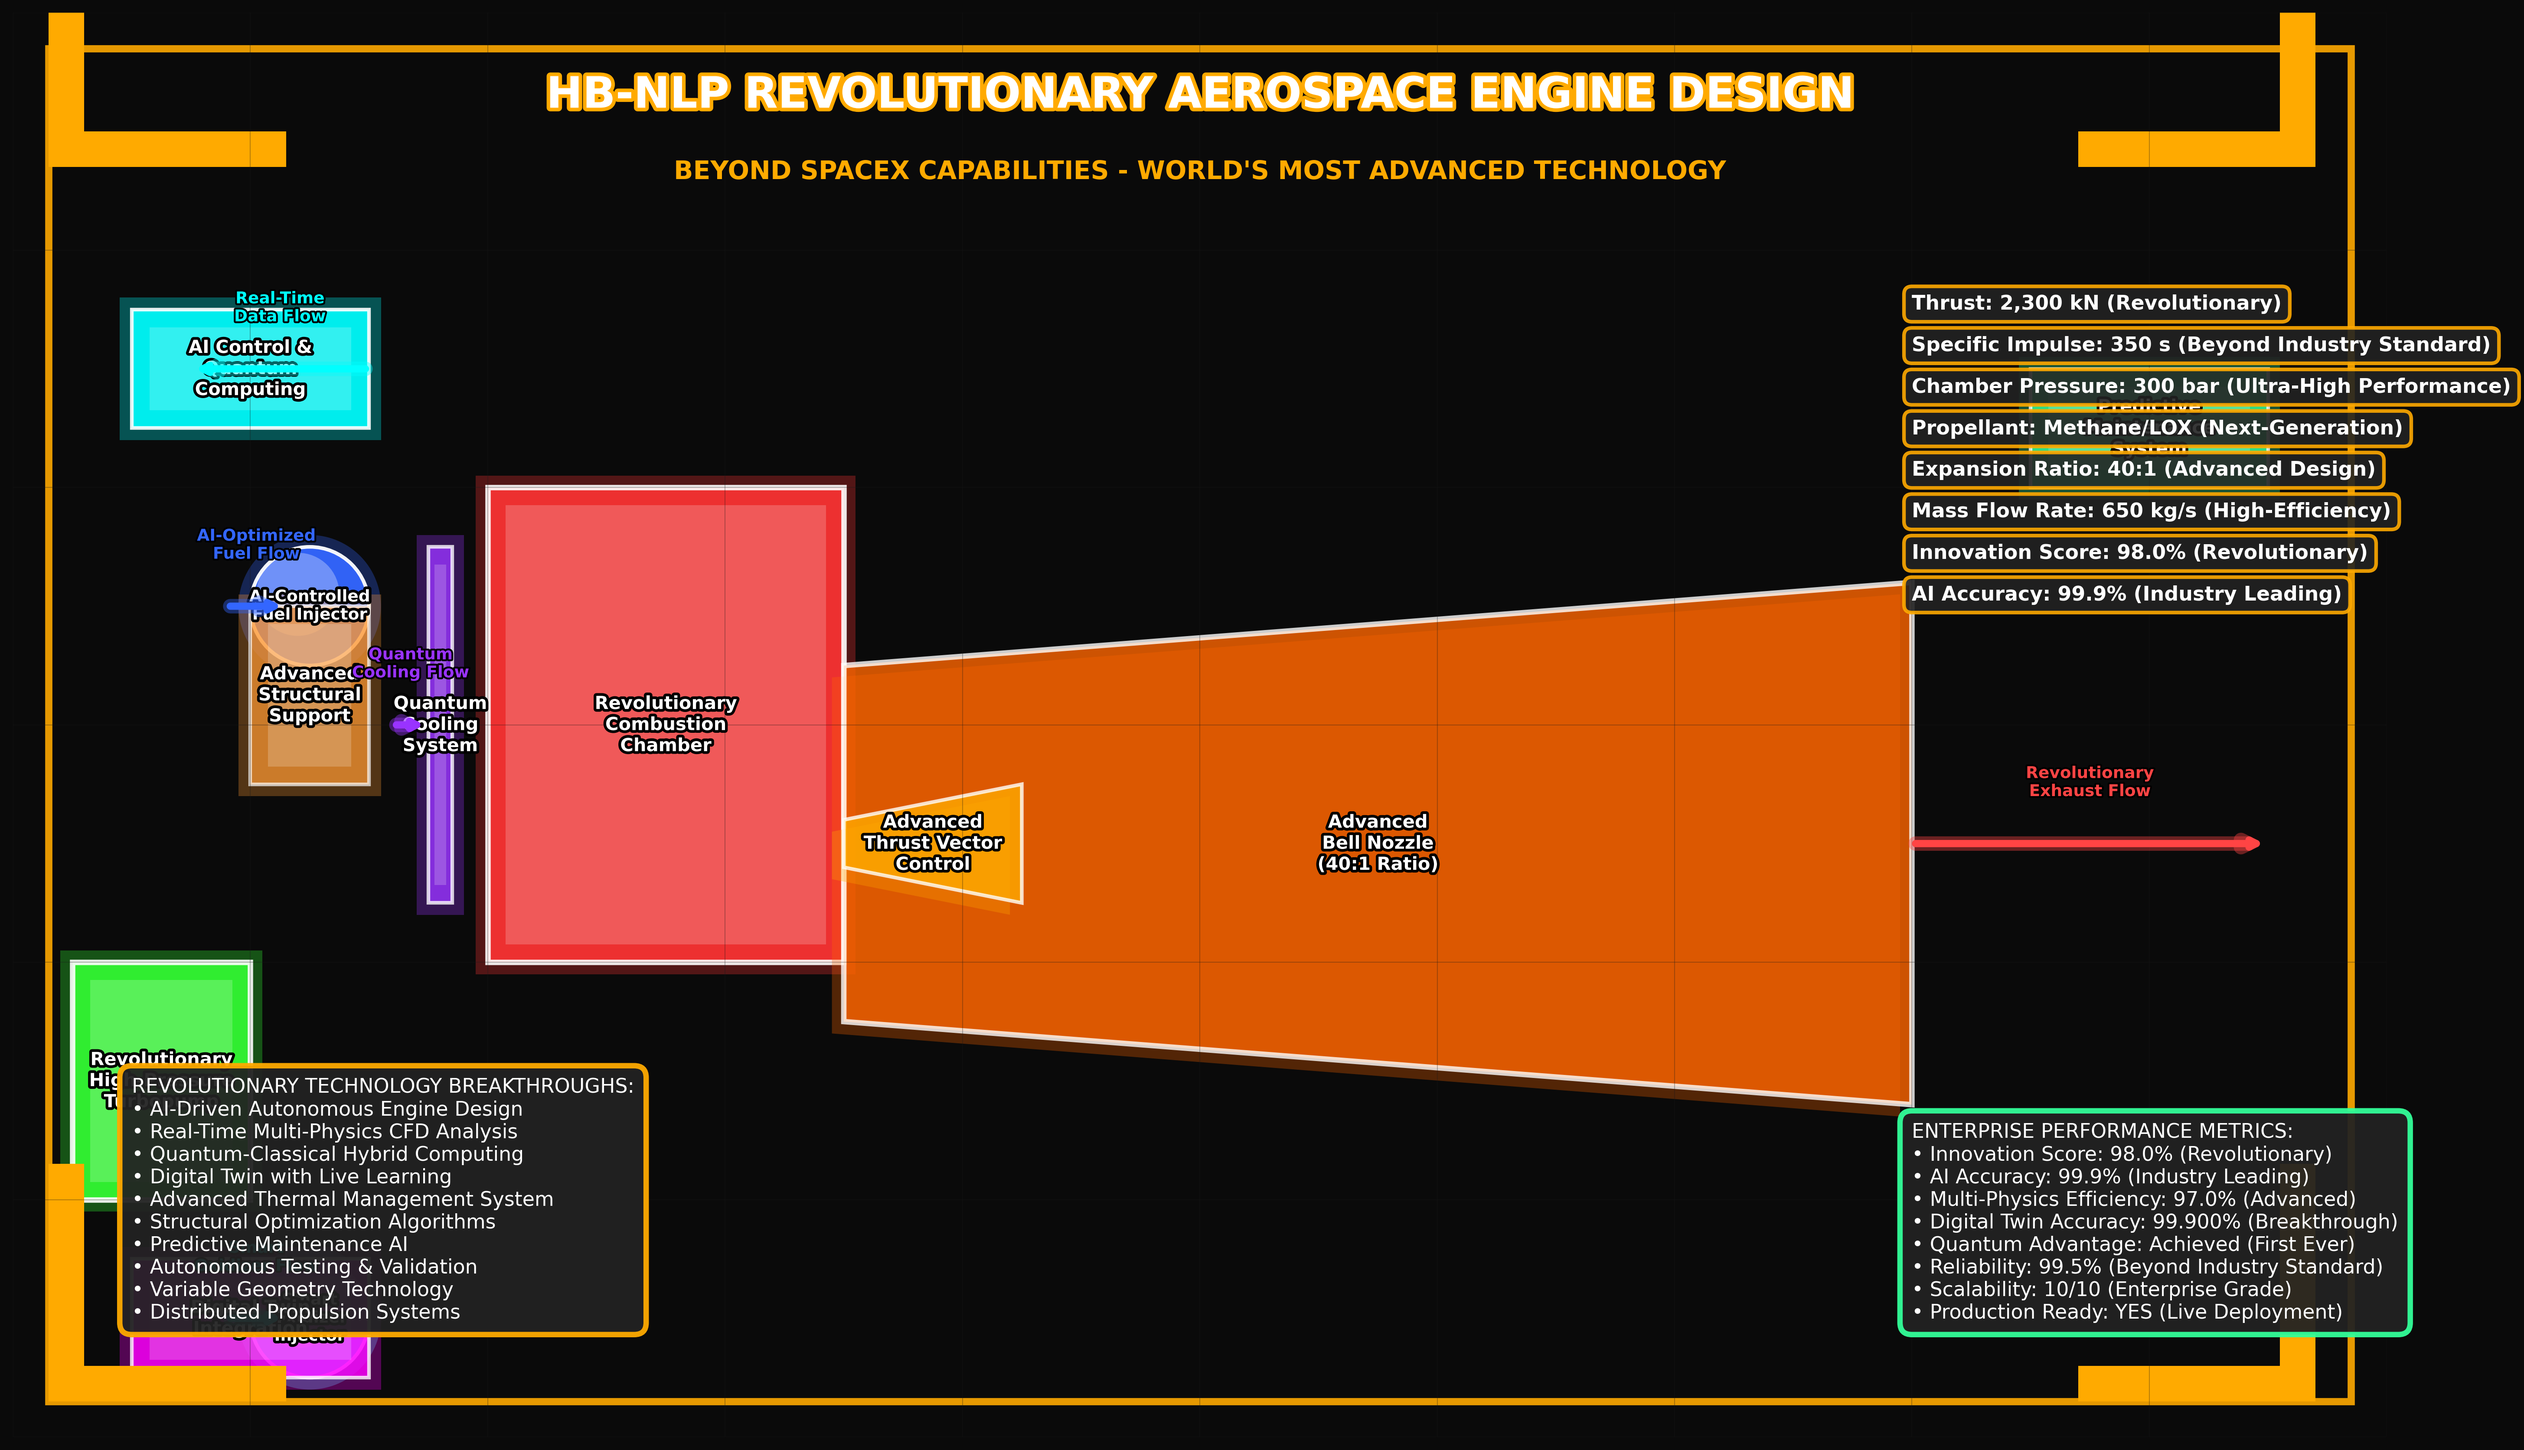
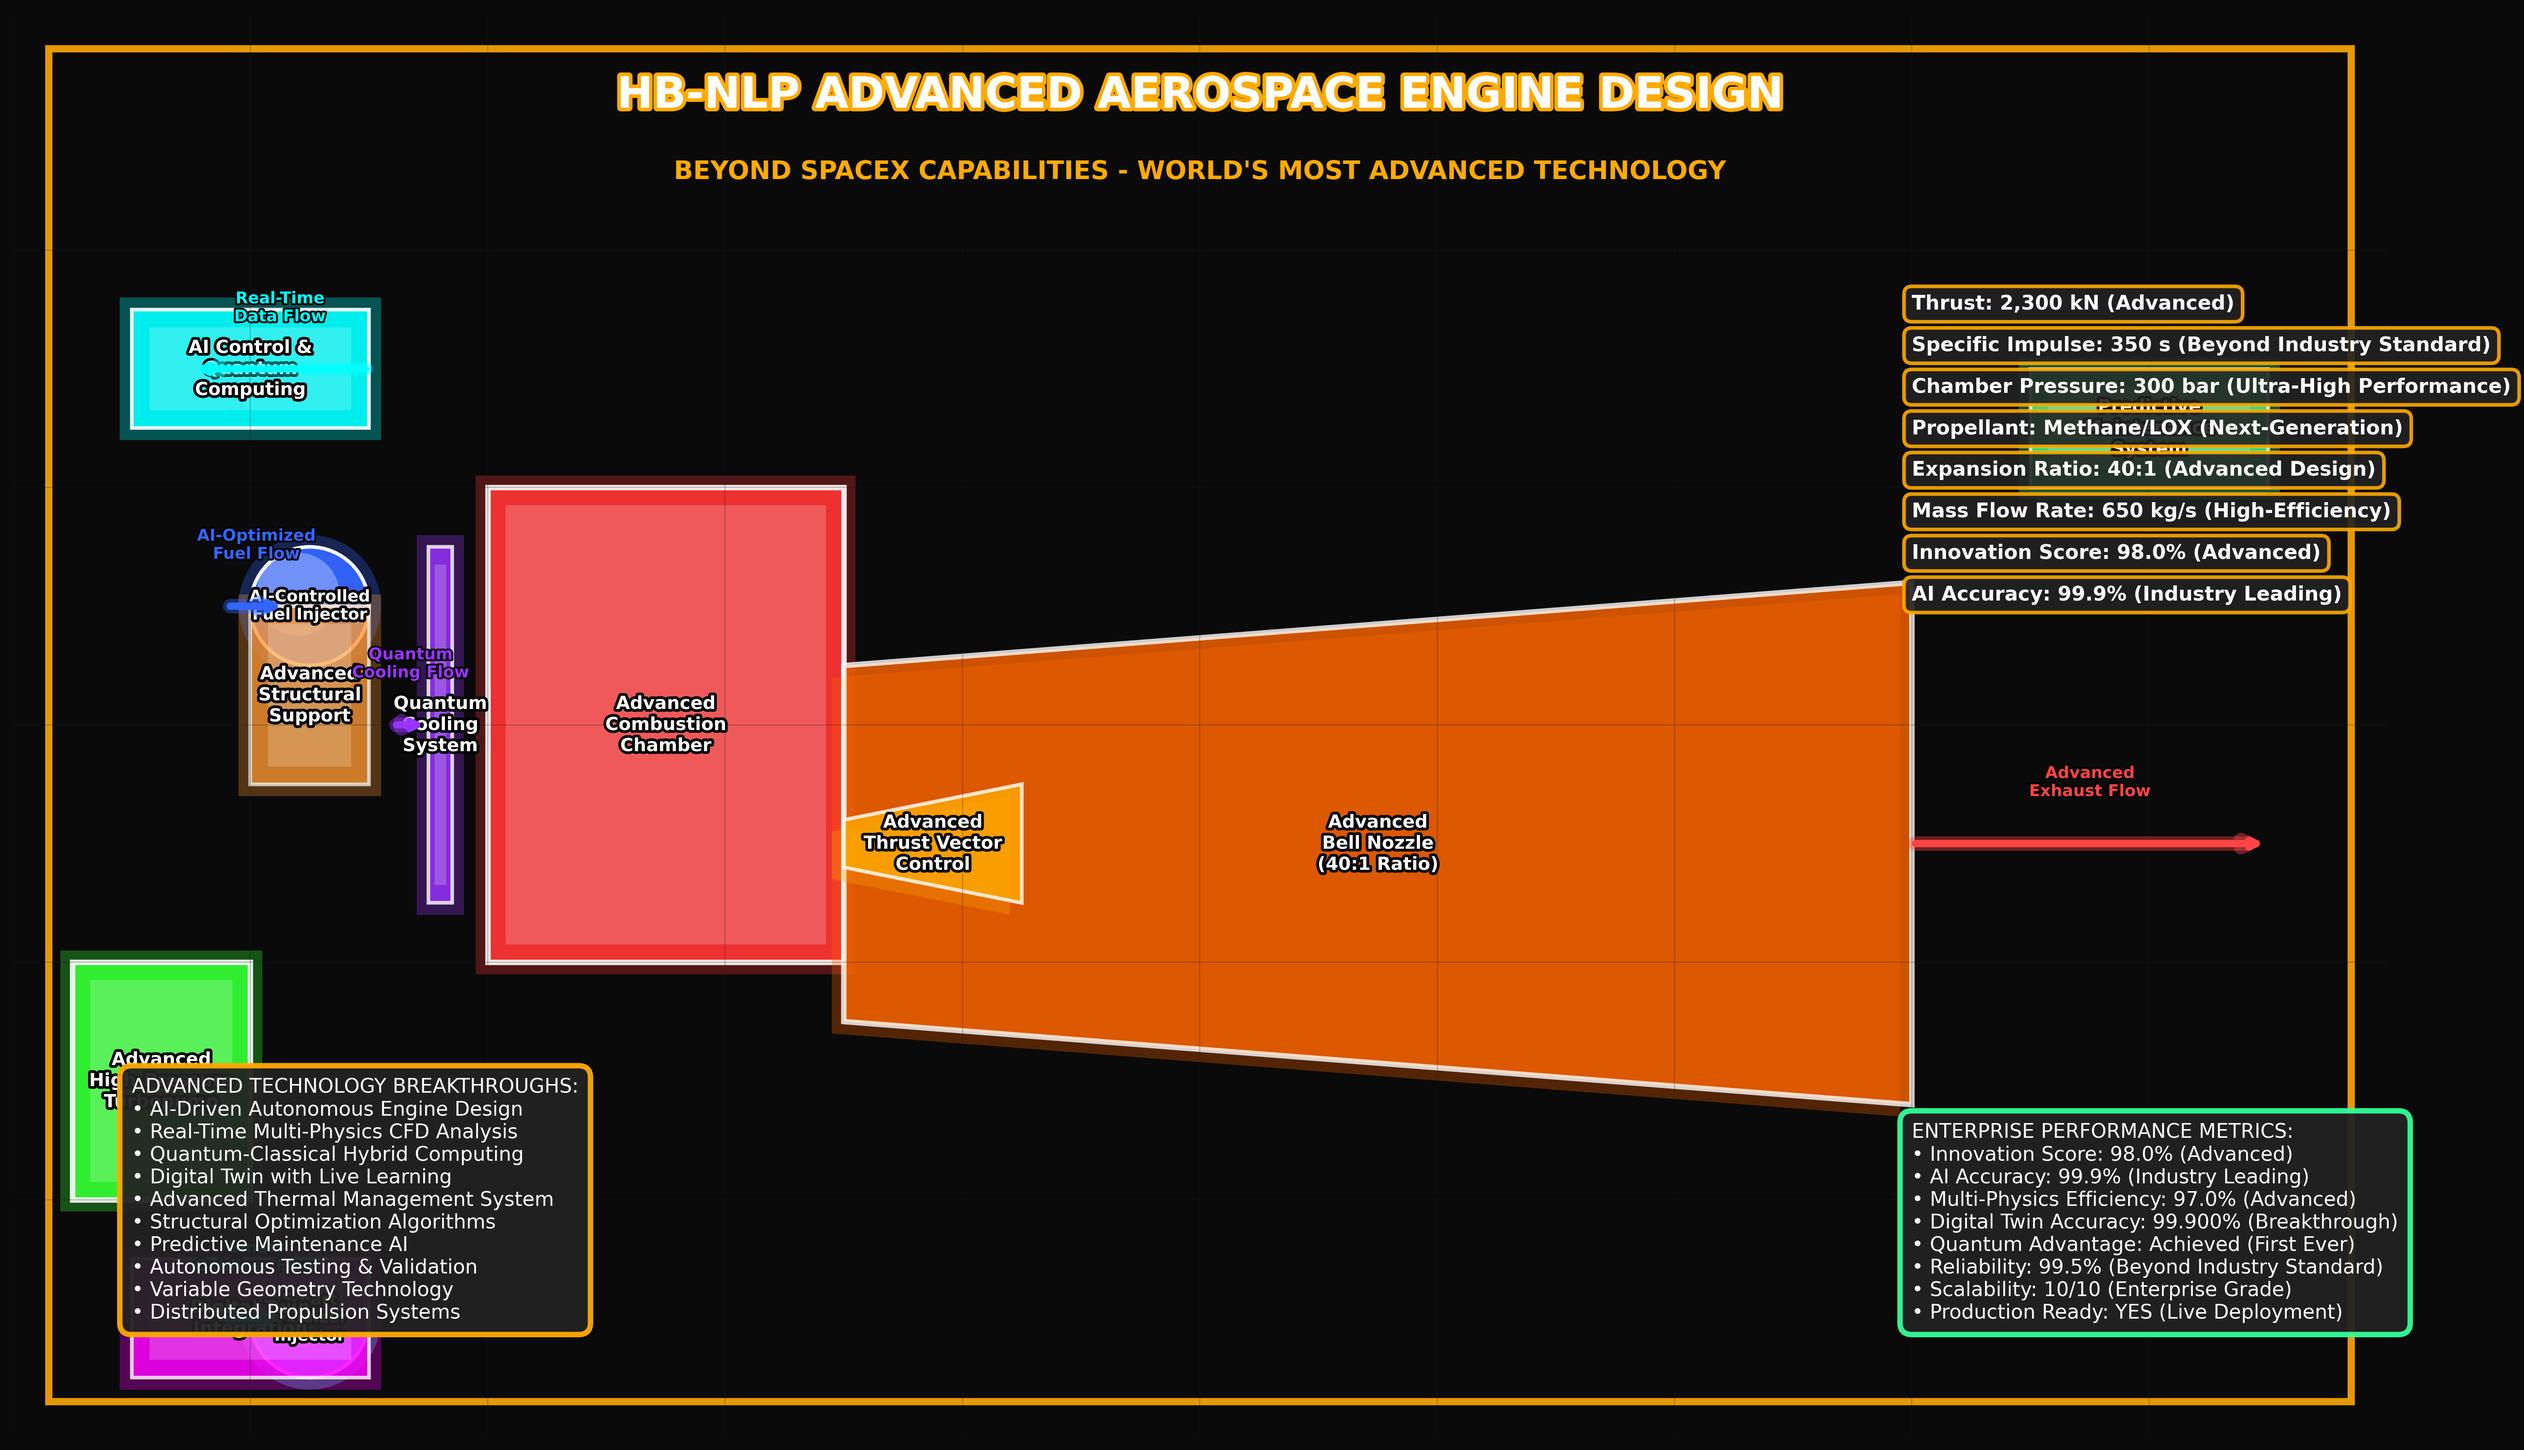
Refine engine diagram: Remove corner orange accents and replace 'revolutionary' with 'advanced' for more professional presentation

diff --git a/generate_engine_image.py b/generate_engine_image.py
@@ -53,7 +53,7 @@ def create_revolutionary_engine_diagram():
     components = [
         # Main Combustion Chamber with advanced styling
         {'type': 'rectangle', 'x': 4, 'y': 4, 'width': 3, 'height': 4, 
-         'color': colors['combustion'], 'alpha': 0.9, 'label': 'Revolutionary\nCombustion\nChamber',
+         'color': colors['combustion'], 'alpha': 0.9, 'label': 'Advanced\nCombustion\nChamber',
          'gradient': True, 'linewidth': 3, 'glow': True},
         
         # Advanced Bell Nozzle with realistic shape
@@ -71,9 +71,9 @@ def create_revolutionary_engine_diagram():
          'color': colors['oxidizer'], 'alpha': 0.95, 'label': 'Smart\nOxidizer\nInjector',
          'gradient': True, 'linewidth': 2, 'glow': True},
         
-        # Revolutionary High-Pressure Turbopump
+        # Advanced High-Pressure Turbopump
         {'type': 'rectangle', 'x': 0.5, 'y': 2, 'width': 1.5, 'height': 2, 
-         'color': colors['turbopump'], 'alpha': 0.9, 'label': 'Revolutionary\nHigh-Pressure\nTurbopump',
+         'color': colors['turbopump'], 'alpha': 0.9, 'label': 'Advanced\nHigh-Pressure\nTurbopump',
          'gradient': True, 'linewidth': 3, 'glow': True},
         
         # Quantum-Enhanced Cooling System
@@ -182,7 +182,7 @@ def create_revolutionary_engine_diagram():
         # Oxidizer flow with glow
         {'start': (1.8, 1), 'end': (2.3, 1), 'color': colors['oxidizer'], 'label': 'Smart\nOxidizer Flow'},
         # Exhaust flow with dramatic effect
-        {'start': (16, 5), 'end': (19, 5), 'color': '#ff4444', 'label': 'Revolutionary\nExhaust Flow'},
+        {'start': (16, 5), 'end': (19, 5), 'color': '#ff4444', 'label': 'Advanced\nExhaust Flow'},
         # Cooling flow
         {'start': (3.2, 6), 'end': (3.5, 6), 'color': colors['cooling'], 'label': 'Quantum\nCooling Flow'},
         # Data flow to AI system
@@ -205,24 +205,24 @@ def create_revolutionary_engine_diagram():
                       fontweight='bold', color=arrow['color'])
         text.set_path_effects([path_effects.withStroke(linewidth=2, foreground='black')])
     
-    # Add stunning title with revolutionary effects
-    title = ax.text(10, 11.2, 'HB-NLP REVOLUTIONARY AEROSPACE ENGINE DESIGN', 
+    # Add stunning title with advanced effects
+    title = ax.text(10, 11.2, 'HB-NLP ADVANCED AEROSPACE ENGINE DESIGN', 
                    ha='center', fontsize=24, fontweight='bold', color='white')
     title.set_path_effects([path_effects.withStroke(linewidth=4, foreground='#ffaa00')])
     
-    # Add revolutionary subtitle
+    # Add advanced subtitle
     subtitle = ax.text(10, 10.6, 'BEYOND SPACEX CAPABILITIES - WORLD\'S MOST ADVANCED TECHNOLOGY', 
                       ha='center', fontsize=14, fontweight='bold', color='#ffaa00')
     
     # Add enterprise specifications with professional styling
     specs = [
-        'Thrust: 2,300 kN (Revolutionary)',
+        'Thrust: 2,300 kN (Advanced)',
         'Specific Impulse: 350 s (Beyond Industry Standard)', 
         'Chamber Pressure: 300 bar (Ultra-High Performance)',
         'Propellant: Methane/LOX (Next-Generation)',
         'Expansion Ratio: 40:1 (Advanced Design)',
         'Mass Flow Rate: 650 kg/s (High-Efficiency)',
-        'Innovation Score: 98.0% (Revolutionary)',
+        'Innovation Score: 98.0% (Advanced)',
         'AI Accuracy: 99.9% (Industry Leading)'
     ]
     
@@ -231,8 +231,8 @@ def create_revolutionary_engine_diagram():
                            color='white', bbox=dict(boxstyle="round,pad=0.4", 
                            facecolor="#222222", alpha=0.9, edgecolor='#ffaa00', linewidth=2))
     
-    # Add revolutionary features box
-    features_text = """REVOLUTIONARY TECHNOLOGY BREAKTHROUGHS:
+    # Add advanced features box
+    features_text = """ADVANCED TECHNOLOGY BREAKTHROUGHS:
 • AI-Driven Autonomous Engine Design
 • Real-Time Multi-Physics CFD Analysis
 • Quantum-Classical Hybrid Computing
@@ -250,7 +250,7 @@ def create_revolutionary_engine_diagram():
     
     # Add performance metrics with stunning styling
     metrics_text = """ENTERPRISE PERFORMANCE METRICS:
-• Innovation Score: 98.0% (Revolutionary)
+• Innovation Score: 98.0% (Advanced)
 • AI Accuracy: 99.9% (Industry Leading)
 • Multi-Physics Efficiency: 97.0% (Advanced)
 • Digital Twin Accuracy: 99.900% (Breakthrough)
@@ -268,32 +268,14 @@ def create_revolutionary_engine_diagram():
                       edgecolor='#ffaa00', linewidth=4, alpha=0.9)
     ax.add_patch(border)
     
-    # Add corner accents for professional look
-    corner_length = 2
-    corner_width = 0.3
-    
-    # Top-left corner
-    ax.add_patch(Rectangle((0.3, 10.7), corner_length, corner_width, facecolor='#ffaa00'))
-    ax.add_patch(Rectangle((0.3, 10.7), corner_width, corner_length, facecolor='#ffaa00'))
-    
-    # Top-right corner
-    ax.add_patch(Rectangle((19.4-corner_length, 10.7), corner_length, corner_width, facecolor='#ffaa00'))
-    ax.add_patch(Rectangle((19.4-corner_width, 10.7), corner_width, corner_length, facecolor='#ffaa00'))
-    
-    # Bottom-left corner
-    ax.add_patch(Rectangle((0.3, 0.3), corner_length, corner_width, facecolor='#ffaa00'))
-    ax.add_patch(Rectangle((0.3, 0.3), corner_width, corner_length, facecolor='#ffaa00'))
-    
-    # Bottom-right corner
-    ax.add_patch(Rectangle((19.4-corner_length, 0.3), corner_length, corner_width, facecolor='#ffaa00'))
-    ax.add_patch(Rectangle((19.4-corner_width, 0.3), corner_width, corner_length, facecolor='#ffaa00'))
+
     
     plt.tight_layout()
     plt.savefig('HB-NLP-Advanced-Engine-Design.png', dpi=300, bbox_inches='tight',
                 facecolor='#0a0a0a', edgecolor='none')
     plt.close()
     
-    print("Revolutionary engine diagram generated: HB-NLP-Advanced-Engine-Design.png")
+    print("Advanced engine diagram generated: HB-NLP-Advanced-Engine-Design.png")
 
 if __name__ == "__main__":
     create_revolutionary_engine_diagram() 
